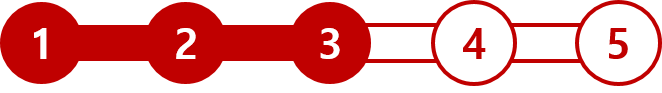
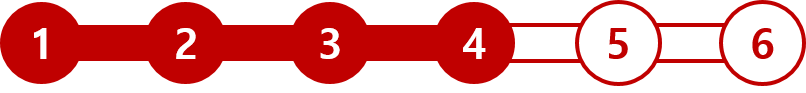
대학 리스트 선택 추가   -- 지금부터 세션 작업 들어가야함

diff --git a/input.php b/input.php
@@ -19,6 +19,14 @@
     $apList[] = $row;
   }
 
+  // 대학 리스트 가져오기
+  $sql = "SELECT uni_id, uni_name FROM university WHERE uni_sort = 'top10' or uni_sort = 'top25' or uni_sort = 'top50'";
+  $result = mysqli_query($conn, $sql);
+  $uniList = array();
+  while($row = mysqli_fetch_assoc($result))
+  {
+    $uniList[] = $row;
+  }
  ?>
 
 <style media="screen">
@@ -31,7 +39,15 @@
   #btn_prev{width: 200px; height:74px; display: block; position: absolute; left: 30px; top: 740px; background:url(res/img/btn_prev.png) no-repeat; background-size:100%}
   #btn_prev:hover{background:url(res/img/btn_prev_h.png) no-repeat; background-size:100%}
 
-  .q_g{position: relative; left: 200px; top: 50px;}
+  .q_g{position: relative; left: 110px; top: 50px;}
+
+  .q0 .q{position:relative; left:20px; top:50px;}
+  #dream_uni_input{position:relative; left:190px; top:30px; width:700px; height: 500px;}
+  #uni_list{position:relative; font-size:1.2em; width:700px;  overflow:scroll; border:1px solid #C00;}
+  #uni_list th{padding:10px; text-align:left; border-bottom:2px solid #C00; background-color:#C00;}
+  #uni_list tbody tr td{border-top:1px solid #C00; color:#C00;}
+
+  .listSelect{background-color:#FAF4C0;}
 
   .q1 .q{position: relative; left: 200px; top: 50px;}
   label{display: none;}
@@ -122,6 +138,31 @@
     font-size: 2.0em;
     font-weight: bold;
   }
+
+
+  ::-webkit-scrollbar {
+    width:8px;
+    height:8px;
+  }
+  ::-webkit-scrollbar-track {
+    background:#efefef;
+    -webkit-box-shadow: inset 0 0 6px rgba(0,0,0,0.3);
+  }
+  ::-webkit-scrollbar-thumb {
+    background:#FF4D41;
+    border-radius: 10px;
+    -webkit-box-shadow: inset 0 0 6px rgba(0,0,0,0.5);
+  }
+  body {
+    scrollbar-3dLight-Color:#FF4D41;
+    scrollbar-base-color:#FF4D41;
+    scrollbar-Face-Color:#FF4D41;
+    scrollbar-Highlight-Color:#FF4D41;
+    scrollbar-Shadow-Color:#FF4D41;
+    scrollbar-DarkShadow-Color:#FF4D41;
+    scrollbar-arrow-color:#FF4D41;
+    scrollbar-Track-Color:#efefef;
+  }
 </style>
 
 <div class="container">
@@ -129,6 +170,27 @@
     <div id="qwrap">
       <div id="touchSlider">
         <ul class="image_container">
+          <li class="q0">
+            <p class="q_g"><img src="res/img/q0_g.png" alt=""></p>
+            <p class="q"><img src="res/img/q0.png" /></p>
+            <div id="dream_uni_input" class="form-group uni_object">
+              <input type="hidden" name="stud_id" value="1">
+              <input type="text" class="form-control hidden" id="uni_id" name="uni_id">
+              <div style='overflow-y:auto;' class=scroll>
+                <table id="uni_list" class="table table-hover">
+                  <thead><tr><th>Rank</th><th>The Name of University</th></tr></thead>
+                  <tbody>
+                    <?php
+                      foreach($uniList as $ul){
+                        echo '<tr class="clsChk1" data-rank="'.$ul['uni_id'].'"><td>'.$ul['uni_id'].'</td><td>'.$ul['uni_name'].'</tr>';
+                      }
+                    ?>
+                  </tbody>
+                  <tfoot></tfoot>
+                </table>
+              </div>
+            </div>
+          </li>
           <li class="q1">
             <p class="q_g"><img src="res/img/q1_g.png" alt=""></p>
             <p class="q"><img src="res/img/q1.png" /></p>
@@ -136,11 +198,11 @@
               <input type="hidden" name="test_id" value="30">
               <input type="text" class="form-control hidden" id="gpa_uw_score" name="test_score">
               <div class="gpa_wrap">
-                <div class="t_option t1 clsChk1" data-gpa="3.8"></div>
-                <div class="t_option t2 clsChk1" data-gpa="3.6"></div>
-                <div class="t_option t3 clsChk1" data-gpa="3.4"></div>
-                <div class="t_option t4 clsChk1" data-gpa="3.2"></div>
-                <div class="t_option t5 clsChk1" data-gpa="3.0"></div>
+                <div class="t_option t1 clsChk2" data-gpa="3.8"></div>
+                <div class="t_option t2 clsChk2" data-gpa="3.6"></div>
+                <div class="t_option t3 clsChk2" data-gpa="3.4"></div>
+                <div class="t_option t4 clsChk2" data-gpa="3.2"></div>
+                <div class="t_option t5 clsChk2" data-gpa="3.0"></div>
               </div>
             </div>
           </li>
@@ -148,8 +210,8 @@
             <p class="q_g"><img src="res/img/q2_g.png"></p>
             <p class="q"><img src="res/img/q2.png"></p>
             <div class="test_wrap">
-              <div class="test_option test_sat clsChk2" id="sat_btn"></div>
-              <div class="test_option test_act clsChk2" id="act_btn"></div>
+              <div class="test_option test_sat clsChk3" id="sat_btn"></div>
+              <div class="test_option test_act clsChk3" id="act_btn"></div>
             </div>
           </li>
           <li class="q2">
@@ -159,11 +221,11 @@
               <input type="hidden" name="test_id" value="1">
               <input type="text" class="form-control hidden" id="sat_score" name="test_score">
               <div class="sat_wrap">
-                <div class="t_option t1 clsChk3" data-sat="1500"></div>
-                <div class="t_option t2 clsChk3" data-sat="1400"></div>
-                <div class="t_option t3 clsChk3" data-sat="1300"></div>
-                <div class="t_option t4 clsChk3" data-sat="1200"></div>
-                <div class="t_option t5 clsChk3" data-sat="1100"></div>
+                <div class="t_option t1 clsChk4" data-sat="1500"></div>
+                <div class="t_option t2 clsChk4" data-sat="1400"></div>
+                <div class="t_option t3 clsChk4" data-sat="1300"></div>
+                <div class="t_option t4 clsChk4" data-sat="1200"></div>
+                <div class="t_option t5 clsChk4" data-sat="1100"></div>
               </div>
             </div>
             <div id="act_score_input" class="form-group hidden">
@@ -171,11 +233,11 @@
               <input type="hidden" name="test_id" value="2">
               <input type="text" class="form-control hidden" id="act_score" name="test_score">
               <div class="act_wrap">
-                <div class="t_option t1 clsChk3" data-act="33"></div>
-                <div class="t_option t2 clsChk3" data-act="30"></div>
-                <div class="t_option t3 clsChk3" data-act="28"></div>
-                <div class="t_option t4 clsChk3" data-act="26"></div>
-                <div class="t_option t5 clsChk3" data-act="24"></div>
+                <div class="t_option t1 clsChk4" data-act="33"></div>
+                <div class="t_option t2 clsChk4" data-act="30"></div>
+                <div class="t_option t3 clsChk4" data-act="28"></div>
+                <div class="t_option t4 clsChk4" data-act="26"></div>
+                <div class="t_option t5 clsChk4" data-act="24"></div>
               </div>
             </div>
           </li>
@@ -183,11 +245,11 @@
             <p class="q_g"><img src="res/img/q3_g.png"></p>
             <p class="q"><img src="res/img/q3.png"></p>
             <div class="sat2_wrap">
-              <div class="test2_option test2_0 clsChk4" data-no="0"></div>
-              <div class="test2_option test2_1 clsChk4" data-no="1"></div>
-              <div class="test2_option test2_2 clsChk4" data-no="2"></div>
-              <div class="test2_option test2_3 clsChk4" data-no="3"></div>
-              <div class="test2_option test2_4 clsChk4" data-no="4"></div>
+              <div class="test2_option test2_0 clsChk5" data-no="0"></div>
+              <div class="test2_option test2_1 clsChk5" data-no="1"></div>
+              <div class="test2_option test2_2 clsChk5" data-no="2"></div>
+              <div class="test2_option test2_3 clsChk5" data-no="3"></div>
+              <div class="test2_option test2_4 clsChk5" data-no="4"></div>
             </div>
           </li>
           <li class="q3">
@@ -213,11 +275,11 @@
             <p class="q"><img src="res/img/q4.png"></p>
             <input type="text" class="form-control hidden" id="ap_no">
             <div class="ap_wrap">
-              <div class="test2_option test2_0 clsChk6" data-no="0"></div>
-              <div class="test2_option test2_1 clsChk6" data-no="1"></div>
-              <div class="test2_option test2_2 clsChk6" data-no="2"></div>
-              <div class="test2_option test2_3 clsChk6" data-no="3"></div>
-              <div class="test2_option test2_4 clsChk6" data-no="4"></div>
+              <div class="test2_option test2_0 clsChk7" data-no="0"></div>
+              <div class="test2_option test2_1 clsChk7" data-no="1"></div>
+              <div class="test2_option test2_2 clsChk7" data-no="2"></div>
+              <div class="test2_option test2_3 clsChk7" data-no="3"></div>
+              <div class="test2_option test2_4 clsChk7" data-no="4"></div>
             </div>
           </li>
           <li class="q4">
@@ -245,11 +307,11 @@
               <input type="hidden" name="test_id" value="3">
               <input type="text" class="form-control hidden" id="toefl_score" name="test_score">
               <div class="toefl_wrap">
-                <div class="t_option t1 clsChk8" data-toefl="110"></div>
-                <div class="t_option t2 clsChk8" data-toefl="100"></div>
-                <div class="t_option t3 clsChk8" data-toefl="90"></div>
-                <div class="t_option t4 clsChk8" data-toefl="80"></div>
-                <div class="t_option t5 clsChk8" data-toefl="0"></div>
+                <div class="t_option t1 clsChk9" data-toefl="110"></div>
+                <div class="t_option t2 clsChk9" data-toefl="100"></div>
+                <div class="t_option t3 clsChk9" data-toefl="90"></div>
+                <div class="t_option t4 clsChk9" data-toefl="80"></div>
+                <div class="t_option t5 clsChk9" data-toefl="0"></div>
               </div>
             </div>
           </li>
@@ -262,6 +324,37 @@
   </form>
 </div>
 <script type="text/javascript">
+  // 대학리스트 스크롤 height 설정
+  $('.scroll').css('height', 446);
+
+
+  // 원하는 대학 list 배열에 담기
+  var uniArray = new Array();
+  var $uniList = $('#uni_list tbody');
+  $('#uni_list tr').click(function(){
+      $(this).toggleClass('listSelect');
+      $(this).attr('data-checked', true);
+      var rank = $(this).data('rank');
+      var _index = uniArray.indexOf(rank);
+      if($uniList.children('.listSelect').length > 3){
+        $(this).removeClass('listSelect');
+        alert('원하는 학교를 3개까지 선택해주세요.');
+    } else {
+      if(_index < 0){
+        uniArray.push(rank);
+      } else {
+        uniArray.splice(_index, 1);
+      }
+    }
+    console.log(uniArray);
+  })
+
+  // 원하는 대학 list post로 넘기기 post는 next 버튼 _slideIndex == 0 에 설정
+  function uniArraySubmit(){
+    $.post('add_process/wish_add.php', {data:uniArray}, function(){
+    })
+  }
+
   var $gpa_uw_score = $('#gpa_uw_score');
   var $gpa_wrap = $('.gpa_wrap');
   var $selectedItem = null;
@@ -324,7 +417,7 @@
   $toefl_wrap.on('click', '.t_option', function(){
     setSelectItem($(this), $toefl_score, 't-checked', 'toefl');
   })
-  
+
   // 점수 선택 시 처리
   function setSelectItem($item, $valueSelector, className, dataName){
     // 기존 선택 아이템이 있는 경우 선택 효과 제거
@@ -387,21 +480,24 @@
     if (!tFlag) {
         switch(_slideIndex) {
             case 0:
-                tAlert = "GPA를 선택해 주세요.";
+                tAlert = "원하는 학교를 선택해 주세요."
                 break;
             case 1:
-                tAlert = "시험종류를 선택해 주세요.";
+                tAlert = "GPA를 선택해 주세요.";
                 break;
             case 2:
-                tAlert = "시험점수를 선택해 주세요.";
+                tAlert = "시험종류를 선택해 주세요.";
                 break;
             case 3:
+                tAlert = "시험점수를 선택해 주세요.";
+                break;
+            case 4:
                 tAlert = "가지고 있는 SAT2 성적의 개수를 선택해 주세요.";
                 break;
-            case 5:
+            case 6:
                 tAlert = "가지고 있는 AP 성적의 개수를 선택해 주세요.";
                 break;
-            case 7:
+            case 8:
                 tAlert = "TOEFL 점수를 선택해 주세요."
                 break;
         }
@@ -409,6 +505,11 @@
         alert(tAlert);
         return;
     }
+
+    if(_slideIndex == 0){
+      uniArraySubmit();
+    }
+
 
     if( _slideIndex == $('.image_container li').length-1 ) {
         makeArray($(this).parents('form'));

diff --git a/add_process/wish_add.php b/add_process/wish_add.php
@@ -1,0 +1,10 @@
+<?php
+  require("../config/db_config.php");
+
+  var_dump($_POST);
+  $data = $_POST['data'];
+  foreach($data as $key){
+    $sql = "INSERT INTO wish (stud_id, uni_id) VALUES('1', '".$key."')";
+    $query = mysqli_query($conn, $sql);
+  }
+ ?>
